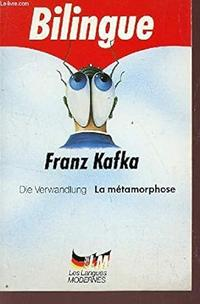
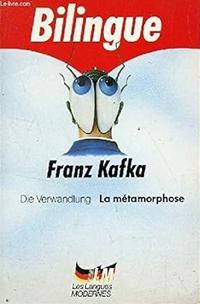
new covers

diff --git a/index.html b/index.html
@@ -476,7 +476,7 @@
             if (!property['image_path']) {
                 console.log("image_path not defined", property)
             }
-            img.src = property['image_path']
+            img.src = property['image_path'].replace("thumbs", "thumbs2")
             img.classList.add("figure-img")
             img.classList.add("img-fluid")
 
